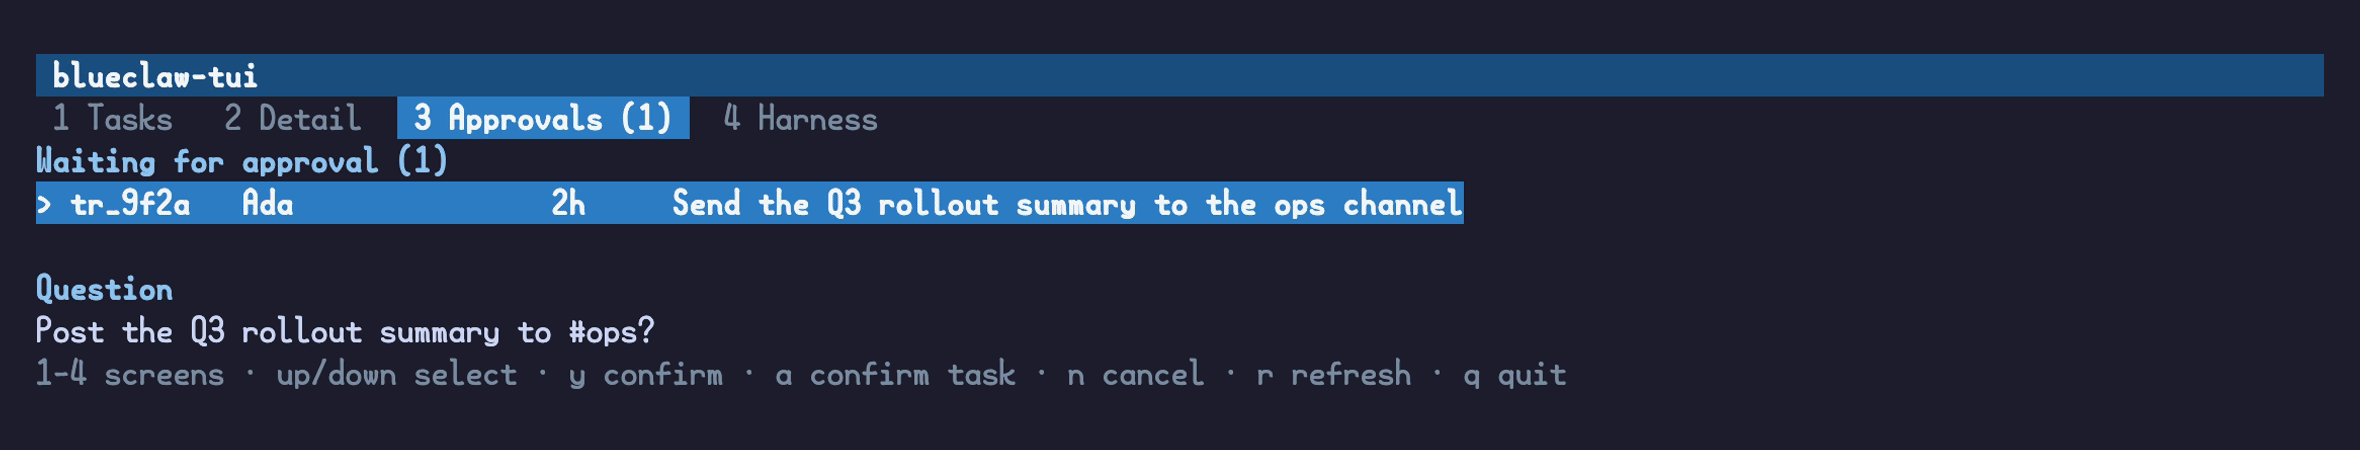
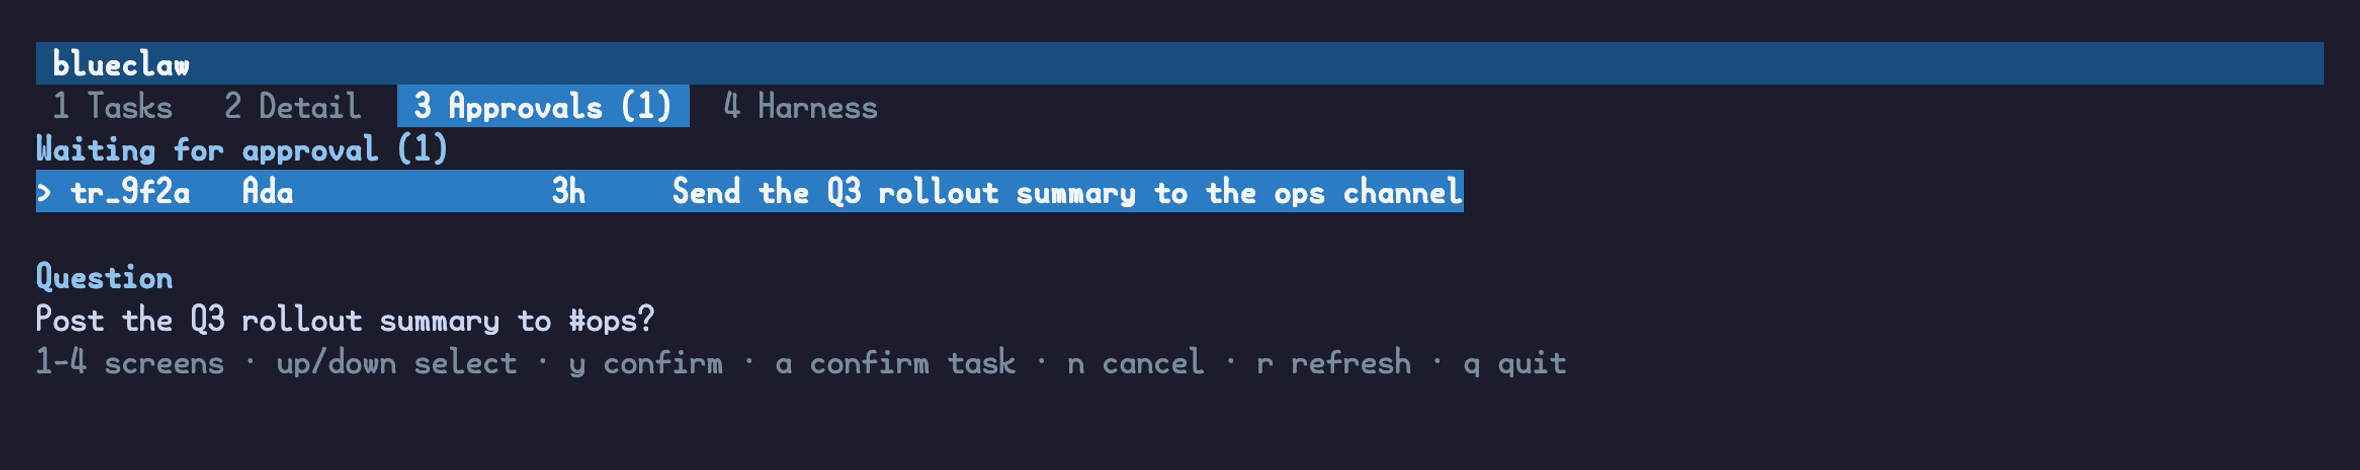
docs: say who this is for in the first sentence, and rename the terminal binary
The README took 250 words to reach the word "multi-user", so a reader
picturing one developer on one laptop got as far as "runs tool calls as
that person's own Linux user" and thought: of course it does, that is how
processes work. The premise only lands if you already assume many people
share one machine and one agent, and nothing said so.

It opens on a company now — one agent, one machine, everyone talking to
it, and sales reading engineering's drafts because nothing on the machine
knows they are different people. The quickstart sends two requests as two
people and points at the two home directories, so the claim is watched
rather than asserted.

Also written down: why the POSIX boundary is the only one. Inside the
requester's permissions the agent is left alone, because every allowlist
is a second, worse copy of what the kernel already enforces.

The terminal binary is cmd/blueclaw-cli, and its header says blueclaw.
blueclaw-tui named the program after its widget toolkit.

Changed region(s): [[0.0, 0.0622, 0.9898, 0.4978], [0.0, 0.56, 0.6805, 0.8711]]

diff --git a/cmd/blueclaw/main.go b/cmd/blueclaw/main.go
@@ -20,7 +20,7 @@ func main() {
 
 	runtimeConfiguration, errorValue := config.LoadRuntimeConfiguration(*runtimeConfigurationPath)
 	if errorValue != nil {
-		log.Fatalf("%v\n\nThis install has no configuration at %s yet. Run blueclaw-tui to set one up.", errorValue, *runtimeConfigurationPath)
+		log.Fatalf("%v\n\nThis install has no configuration at %s yet. Run blueclaw-cli to set one up.", errorValue, *runtimeConfigurationPath)
 	}
 
 	if errorValue := ensureManagedDatabase(home, runtimeConfiguration); errorValue != nil {

diff --git a/internal/tui/view.go b/internal/tui/view.go
@@ -43,7 +43,7 @@ func (model Model) renderTabBar() string {
 			renderedTabs = append(renderedTabs, styleTabIdle.Render(label))
 		}
 	}
-	return styleHeaderBar.Width(maximumInt(model.width, 0)).Render("blueclaw-tui") + "\n" + strings.Join(renderedTabs, " ")
+	return styleHeaderBar.Width(maximumInt(model.width, 0)).Render("blueclaw") + "\n" + strings.Join(renderedTabs, " ")
 }
 
 func (model Model) renderScreenBody() string {

diff --git a/internal/tui/model.go b/internal/tui/model.go
@@ -20,9 +20,6 @@ var screenOrder = []screenID{screenTasks, screenDetail, screenApprovals, screenH
 
 const defaultPollInterval = 3 * time.Second
 
-// Model is the blueclaw-tui bubbletea model. It holds no terminal-specific
-// state beyond the current viewport size, so its data can be exercised by
-// tests without a TTY by driving Update directly.
 type Model struct {
 	client            *Client
 	runtimeConfigPath string

diff --git a/README.md b/README.md
@@ -1,6 +1,6 @@
 <img src="assets/blueclaw.logo.svg" alt="blueclaw" width="112">
 
-# blueclaw — a POSIX-isolated agent host
+# blueclaw — a multi-user agent host
 
 [![CI](https://github.com/Dawn-kim-official/blueclaw/actions/workflows/ci.yml/badge.svg)](https://github.com/Dawn-kim-official/blueclaw/actions/workflows/ci.yml)
 [![Go](https://img.shields.io/badge/go-1.26-00ADD8?logo=go&logoColor=white)](go.mod)
@@ -13,13 +13,20 @@
 > with, not so it can be depended on. If you run it, pin a commit and expect to
 > read diffs.
 
-blueclaw is an open source, self-hosted AI agent host: a Go daemon that runs an
-AI agent harness on behalf of the person who asked. It executes every tool call
-as that person's own unprivileged Linux user, holds side-effecting calls at an
-approval gate, and writes every step to a durable event ledger. It owns
-identity, isolation, task state, the tool catalog, and delivery.
+A company runs one agent on one machine and everyone talks to it. To a harness
+that runs as whoever started it, the whole company is one Unix account: one home
+directory, one set of files, one view of every secret, and no record of which
+person authorized which side effect. Sales can read engineering's drafts because
+nothing on the machine knows they are different people.
 
-<img src="assets/screenshots/tui-tasks.png" alt="blueclaw-tui showing five task runs, one waiting for approval" width="100%">
+blueclaw is the host that makes them different people. It is an open source,
+self-hosted Go daemon that runs an AI agent harness on behalf of whichever
+person asked, executes each requester's tool calls as their own unprivileged
+Linux user, holds side-effecting calls at an approval gate, and writes every
+step to a durable event ledger. It owns identity, isolation, task state, the
+tool catalog, and delivery.
+
+<img src="assets/screenshots/tui-tasks.png" alt="blueclaw showing five task runs, one waiting for approval" width="100%">
 
 The agent loop is a replaceable component behind a Go interface
 (`agentcontract.Harness`, one method). Five harnesses are selectable, one of them in this
@@ -40,13 +47,14 @@ to this project.
 | It is | It is not |
 |---|---|
 | a host process that runs an agent harness | an agent, an agent loop, or a model |
-| a POSIX identity boundary around tool execution | a container runtime or a sandbox technology |
+| a POSIX identity boundary between the people sharing one machine | a container runtime or a sandbox technology |
 | a durable task store with an append-only event ledger | a chat client |
 | an MCP client that mounts external tool servers into the catalog, and an MCP server that publishes the requester's catalog to an external harness | a general-purpose MCP server for arbitrary clients |
 | a Go daemon you build from source and self-host | a hosted service or a packaged binary release |
 
-Read the right-hand column literally. The isolation blueclaw adds is POSIX
-identity; it composes with bubblewrap or a container.
+Read the right-hand column literally. blueclaw separates requesters from each
+other, not the agent from the host; a container does the latter, and the two
+compose.
 
 blueclaw is the runtime inside InternKim, an on-premise AI automation
 appliance.
@@ -65,12 +73,25 @@ A harness that executes tools inside its own process is not an acceptable
 integration, because it takes back the only thing the host exists to provide.
 
 The mechanical claim is narrow and testable: tool execution runs as an
-unprivileged POSIX user derived from the requester's identity, and
+unprivileged POSIX user derived from each requester's identity, and
 [POSIX](https://pubs.opengroup.org/onlinepubs/9799919799/) ownership and mode
 bits are the only access boundary. There is no executable allowlist, no denied
 command list, and no denied path prefix anywhere in the execution path. A
 command the requester may not run is not refused by blueclaw; it fails at the
 kernel.
+
+That is an opinion, and it cuts both ways. Inside the requester's permissions
+the agent is left alone — it may install a package, walk the filesystem, run a
+build, try something and undo it, without asking a policy engine whether each
+step is on a list. Every such list is a second, worse copy of the permissions
+the kernel already enforces: it goes stale, it blocks work the person is
+entitled to do, and the model learns to route around it. Confining a process is
+a solved problem, and the solution is fifty years old.
+
+So the boundary is drawn once, at identity, and it is absolute. What is left is
+judgment about effects that leave the machine — sending a message, publishing a
+site, changing a shared calendar — and that goes to a person at the approval
+gate, not to a rule.
 
 ## How it works
 
@@ -90,7 +111,7 @@ kernel.
             +-- agentcontract.Harness --+-- .dependency/bluecollar   (Go, in-process)
             |                           +-- an ACP or CLI agent, started as the requester
             |
-            +-- tool execution --> blueclaw-posix-helper --> requester UID/GID/groups
+            +-- tool execution --> blueclaw-posix-helper --> each requester's UID/GID/groups
 ```
 
 ### Intake: connectors normalize a message
@@ -245,7 +266,9 @@ A standalone deployment reports `capabilityd: not_configured` and checks only
 operations an appliance supplies are simply absent. The agent loop, skills, the
 terminal, and files work.
 
-**3. Enable per-person POSIX isolation.** The projection is applied only when
+**3. Enable per-person POSIX isolation.** Until this step every requester shares
+the daemon's account; this is the step that makes blueclaw a multi-user host
+rather than a single-account one. The projection is applied only when
 `terminal.posixHelperPath` is set. Build and install the setuid helper, then
 point the configuration at it:
 
@@ -258,16 +281,23 @@ sudo chmod 4755 /usr/local/bin/blueclaw-posix-helper
 The daemon then synchronizes users, groups, and directory modes from the policy
 document at every boot (`internal/app/application.go`).
 
-**4. Give it work.** Address a person from your policy by email through the
-`api` connector:
+**4. Give it work, as two different people.** Address two people from your
+policy by email through the `api` connector:
 
 ```bash
-curl -s -X POST localhost:8081/connectors/api/events -H 'content-type: application/json' \
-  -d '{"conversationID":"dm:api:you","messageID":"m1","senderID":"admin@example.com",
-       "replyTargetID":"dm:api:you","prompt":"Say hello in one short sentence."}'
+for sender in ada@example.com grace@example.com; do
+  curl -s -X POST localhost:8081/connectors/api/events -H 'content-type: application/json' \
+    -d "{\"conversationID\":\"dm:api:$sender\",\"messageID\":\"m1\",\"senderID\":\"$sender\",
+         \"replyTargetID\":\"dm:api:$sender\",\"prompt\":\"Write your name to a file in your home directory.\"}"
+done
 
-curl -s 'localhost:8081/agent/api/replies?conversationID=dm:api:you'
+curl -s 'localhost:8081/agent/api/replies?conversationID=dm:api:ada@example.com'
 ```
+
+The two runs execute as different Linux users with different `0700` home
+directories. Neither can read the other's file, and the ledger records which of
+them authorized which side effect. That is the whole claim, and it takes about
+thirty seconds to watch.
 
 To watch a whole scenario instead, the lab runner drives the agent loop and
 writes every request, response, tool call, and artifact to a directory:
@@ -285,13 +315,13 @@ and `--scenario-file` loads one from JSON instead.
 
 ## Terminal interface
 
-`cmd/blueclaw-tui` is how you watch and answer a running host from a terminal.
+`cmd/blueclaw-cli` is how you watch and answer a running host from a terminal.
 It talks to the admin API over HTTP, so it runs wherever you can reach the
 daemon.
 
 ```bash
-go build -o blueclaw-tui ./cmd/blueclaw-tui
-./blueclaw-tui --base-url http://127.0.0.1:8081
+go build -o blueclaw-cli ./cmd/blueclaw-cli
+./blueclaw-cli --base-url http://127.0.0.1:8081
 ```
 
 With no `--base-url` it reads the one recorded at enrollment. `--runtime`
@@ -605,7 +635,7 @@ terminal user interface, and five selectable harnesses.
 | A harness port narrow enough for an external harness | done. Down from nine methods to one, `RunTurn`. Turn routing (deciding whether an inbound message becomes a task at all) and launch-failure completion are host policy now and live in `internal/agentruntime`. |
 | External harnesses plugging in | done. `agent.harness.name` selects `bluecollar` (in-process), `acp` (any Agent Client Protocol agent), `claude-code`, `codex`, or `antigravity`; see [Harnesses](#harnesses). opencode over ACP and Claude Code over its CLI both run a full turn against this host's tool catalog with no harness-specific code beyond a command descriptor. |
 | MCP server exposing blueclaw's tool catalog | done. `internal/mcpserver` publishes a per-requester catalog at `/harness/tool-catalog`, authenticated by a session token that is revoked when the turn ends. It is how an external harness reaches tools it may not execute itself. |
-| CLI and terminal user interface | done. `cmd/blueclaw-tui` on `charm.land/bubbletea/v2`: task timeline, approval queue, live tool calls, and the enrollment flow. |
+| CLI and terminal user interface | done. `cmd/blueclaw-cli` on `charm.land/bubbletea/v2`: task timeline, approval queue, live tool calls, and the enrollment flow. |
 | bluecollar moving to its own repository | done. The loop, its routing, the turn stream, and the contract packages live in the bluecollar repository and are pinned here as a submodule. |
 | Removal of the `internal/access` Go-side ACL pre-check | withdrawn. It is not a POSIX duplicate; it is the only per-person authorization for capability operations, and nothing downstream repeats it. See Known gaps in the boundary. |
 

diff --git a/docs/architecture.md b/docs/architecture.md
@@ -17,7 +17,7 @@ function names beside them are the durable reference.
 | Harness | the agent loop: run a turn and report what happened | `.dependency/bluecollar` (in-process), `internal/acpharness`, `internal/cliharness` |
 | Harness boundary | what an out-of-process agent may reach and what its turn achieved | `internal/mcpserver`, `internal/approvalgate`, `internal/turnoutcome`, `internal/security` |
 | Contract | the types both compile against, and the harness port | `.dependency/bluecollar/agentcontract/`, `.dependency/bluecollar/toolcontract/`, `.dependency/bluecollar/taskstate/` |
-| Operator surface | enrollment, the terminal UI | `internal/enrollment`, `internal/tui`, `cmd/blueclaw-tui` |
+| Operator surface | enrollment, the terminal UI | `internal/enrollment`, `internal/tui`, `cmd/blueclaw-cli` |
 
 ### Running a harness that is not this repository's
 
